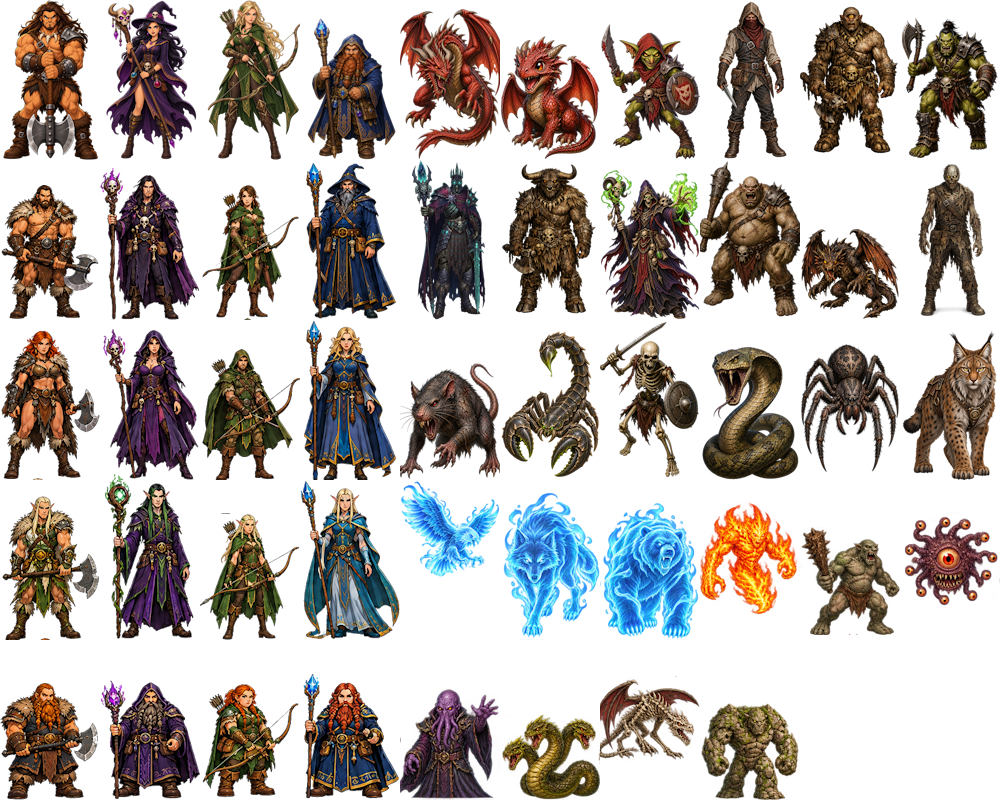
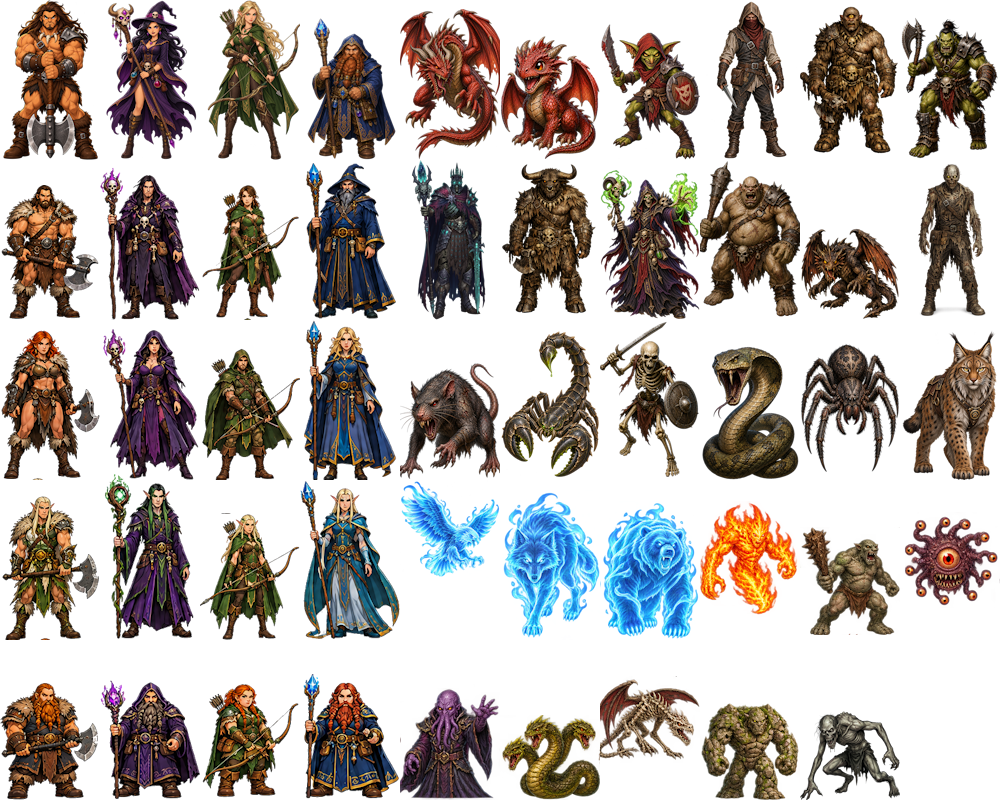
Added ghoul

Changed region(s): [[0.806, 0.875, 0.899, 1.0]]

diff --git a/lib/games/monsters.test.ts b/lib/games/monsters.test.ts
@@ -1,0 +1,52 @@
+import { getMonsterStrength, getPointsForDamage, monsters } from './monsters';
+import { getAvailableMonstersByStrength } from './monster-pack';
+
+describe('monsters', () => {
+  it('defines the Ghoul monster with valid properties', () => {
+    const ghoul = monsters.ghoul;
+    expect(ghoul).toBeDefined();
+    expect(ghoul.id).toBe('ghoul');
+    expect(ghoul.name).toBe('Ghoul');
+    expect(ghoul.iconXY).toEqual({ x: 8, y: 4 });
+    expect(ghoul.baseStats.attack).toBeGreaterThan(0);
+    expect(ghoul.baseStats.damage).toBeGreaterThan(0);
+    expect(ghoul.baseStats.defence).toBeGreaterThan(0);
+    expect(ghoul.baseStats.health).toBeGreaterThan(0);
+    expect(ghoul.baseStats.speed).toBeGreaterThan(0);
+  });
+
+  it('ensures Ghoul is slightly weaker than Skeleton', () => {
+    const ghoul = monsters.ghoul;
+    const skeleton = monsters.skeleton;
+
+    const ghoulStrength = getMonsterStrength(ghoul);
+    const skeletonStrength = getMonsterStrength(skeleton);
+
+    expect(ghoulStrength).toBeLessThan(skeletonStrength);
+    expect(ghoul.baseStats.attack).toBeLessThan(skeleton.baseStats.attack);
+    expect(ghoul.baseStats.damage).toBeLessThan(skeleton.baseStats.damage);
+    expect(ghoul.baseStats.defence).toBeLessThan(skeleton.baseStats.defence);
+    expect(ghoul.baseStats.magic).toBeLessThan(skeleton.baseStats.magic);
+    expect(ghoul.baseStats.health).toBeLessThan(skeleton.baseStats.health);
+  });
+
+  it('ensures Ghoul is stronger than a Zombie and a Rat', () => {
+    const ghoulStrength = getMonsterStrength(monsters.ghoul);
+    expect(ghoulStrength).toBeGreaterThan(getMonsterStrength(monsters.zombie));
+    expect(ghoulStrength).toBeGreaterThan(getMonsterStrength(monsters.rat));
+  });
+
+  it('includes Ghoul in available monsters by strength for auto-population', () => {
+    const available = getAvailableMonstersByStrength();
+    const ghoulEntry = available.find(m => m.id === 'ghoul');
+    expect(ghoulEntry).toBeDefined();
+    expect(ghoulEntry?.strength).toBe(getMonsterStrength(monsters.ghoul));
+  });
+
+  it('calculates points for damage for a Ghoul', () => {
+    const points = getPointsForDamage('ghoul', 5);
+    expect(points).toBeGreaterThan(0);
+    expect(points).toBeLessThan(getPointsForDamage('skeleton', 5));
+  });
+});
+

diff --git a/lib/games/monsters.ts b/lib/games/monsters.ts
@@ -200,6 +200,19 @@ export const monsters: { [id: string]: MonsterListEntry } = {
       speed: 4,
     },
   },
+  'ghoul': {
+    id: 'ghoul',
+    name: 'Ghoul',
+    iconXY: { x: 8, y: 4 },
+    baseStats: {
+      attack: 11,
+      damage: 7,
+      defence: 8,
+      magic: 0,
+      health: 15,
+      speed: 4,
+    },
+  },
   'ogre': {
     id: 'ogre',
     name: 'Ogre',
